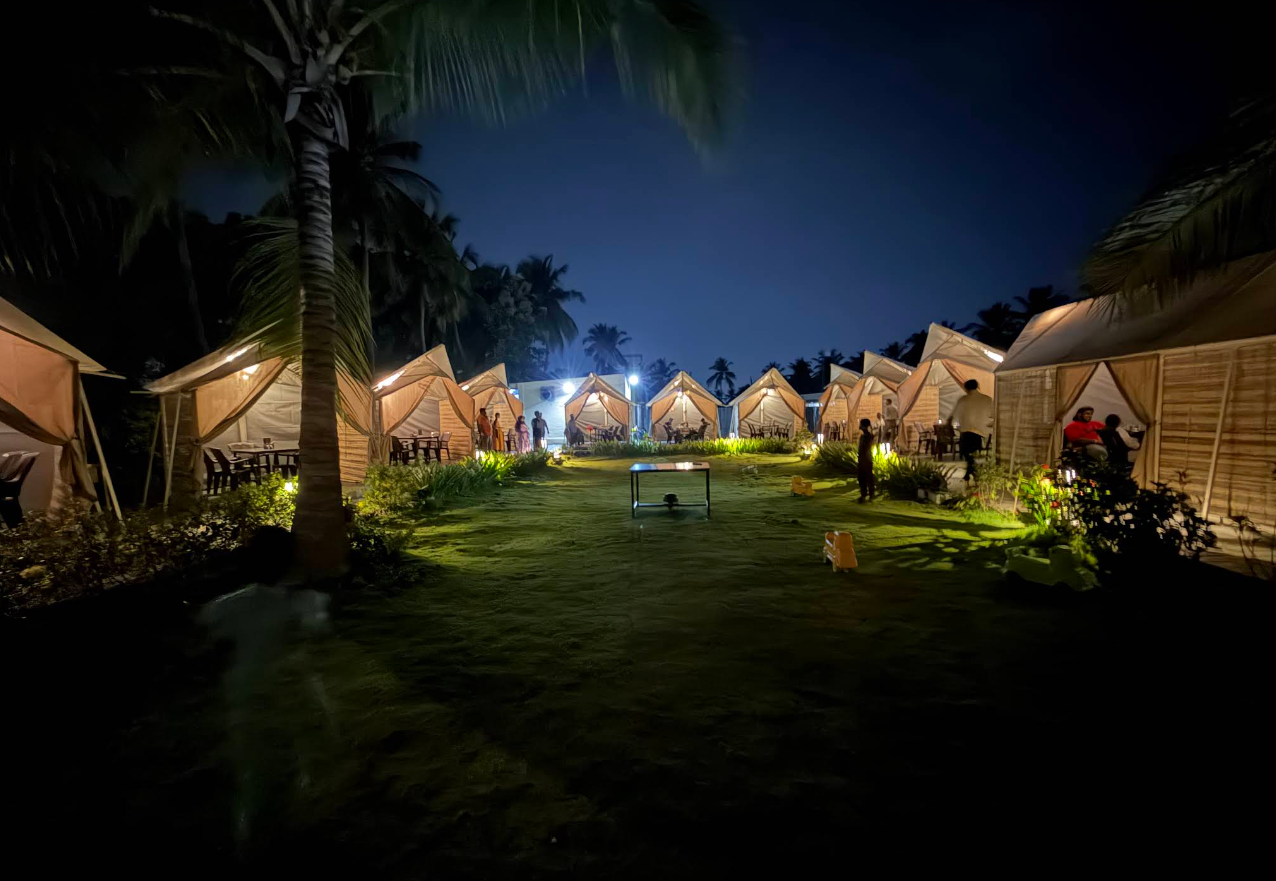
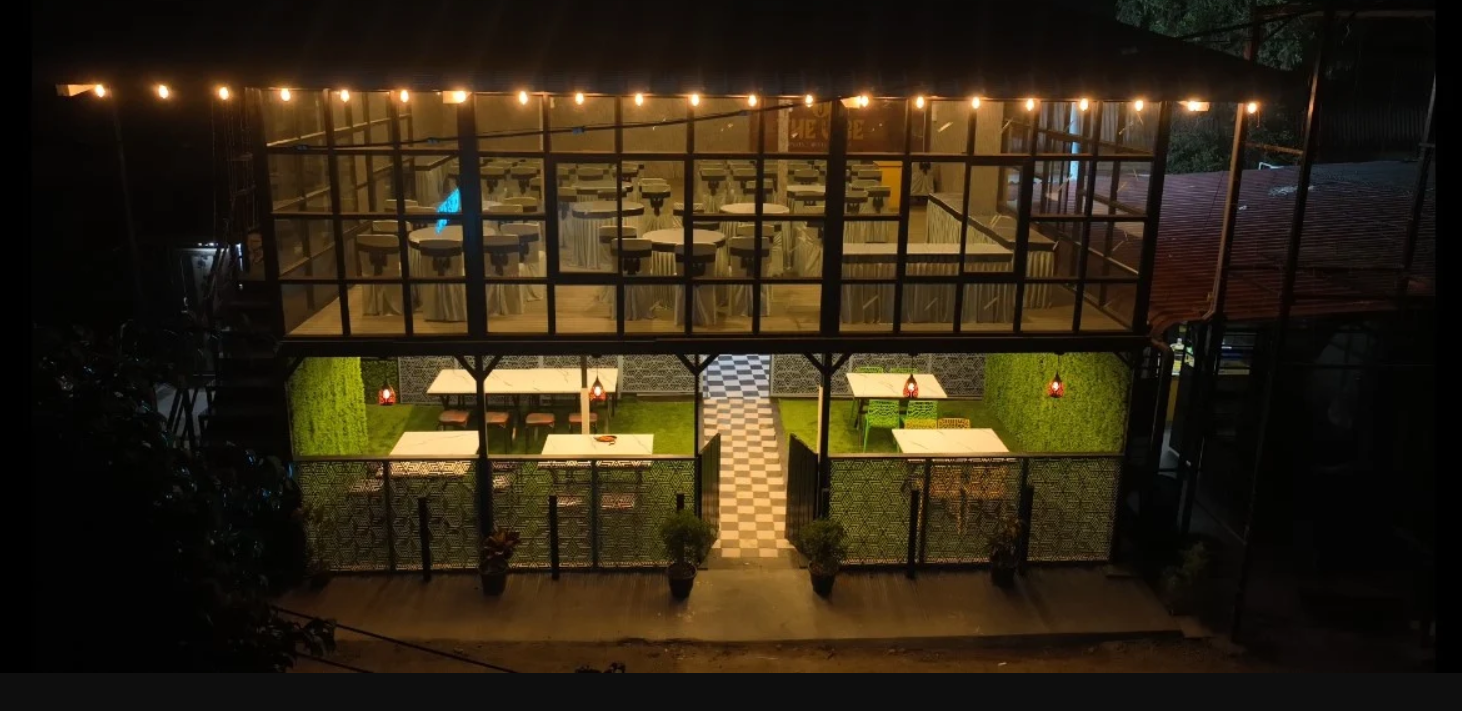
new bumps

diff --git a/src/data/birthday.ts b/src/data/birthday.ts
@@ -47,11 +47,10 @@ export const birthday = {
 
   venue: {
     eyebrow: "Join The Celebration",
-    name: "Thennaisolai Restaurant",
+    name: "THE VIBE",
     address: "Chinnavedampatti",
     photo: "/images/venue.png",
-    mapsUrl:
-      "https://www.google.com/maps/search/?api=1&query=Thennaisolai+Restaurant+Chinnavedampatti",
+    mapsUrl: "https://maps.app.goo.gl/Gi9YfTzaiWRYcRkr6",
   },
 
   events: [
@@ -59,7 +58,7 @@ export const birthday = {
       title: "Adrik's 1st Birthday",
       date: "2026-10-25",
       time: "17:30",
-      venue: "Thennaisolai Restaurant, Chinnavedampatti",
+      venue: "THE VIBE, Chinnavedampatti",
       description: "Join us as we celebrate Adrik's 1st Birthday!",
       details: [
         { label: "Time", value: "5.30 PM – 8.30 PM" },
@@ -126,7 +125,7 @@ export const birthday = {
   seo: {
     title: "Adrik's 1st Birthday — Our Little Prince",
     description:
-      "Join us on 25th October at Thennaisolai Restaurant, Chinnavedampatti to celebrate Adrik turning ONE!",
+      "Join us on 25th October at THE VIBE, Chinnavedampatti to celebrate Adrik turning ONE!",
     image: "/images/invitation.jpg",
   },
 
